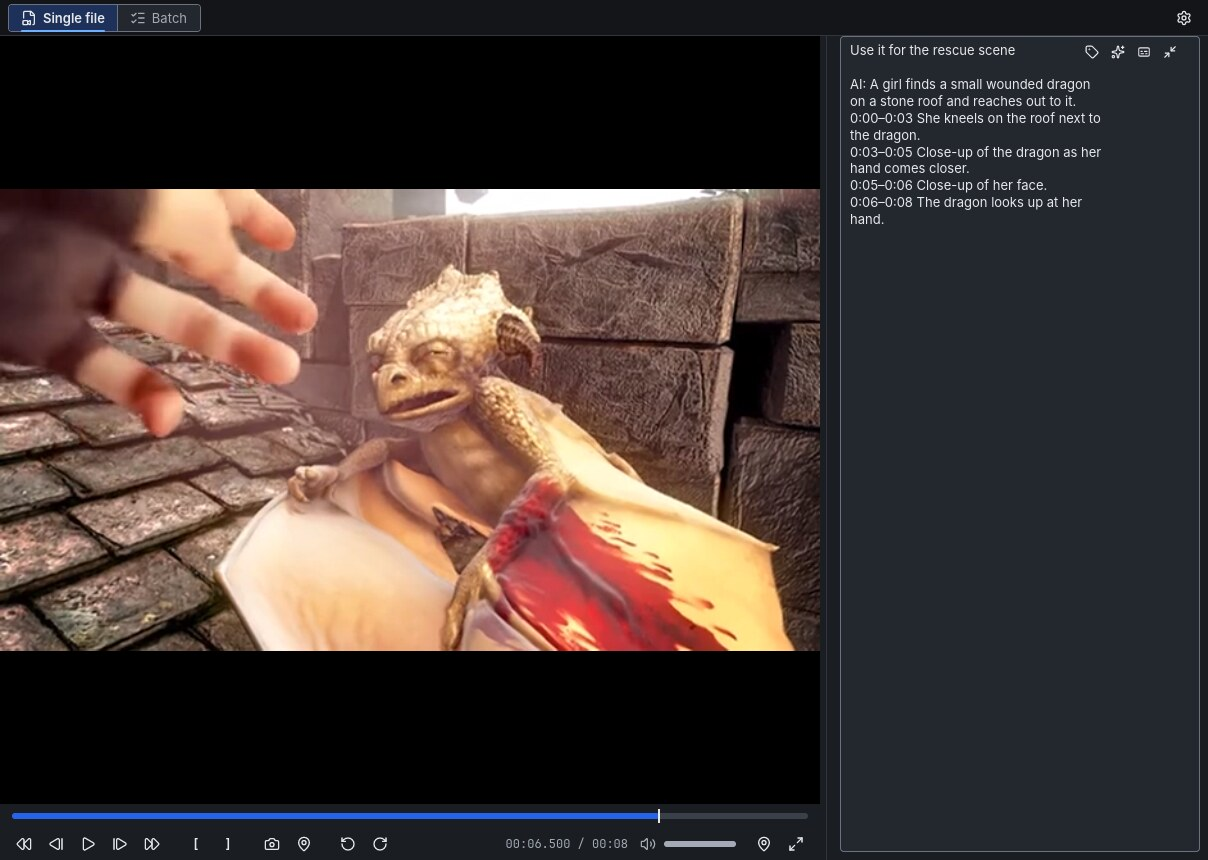
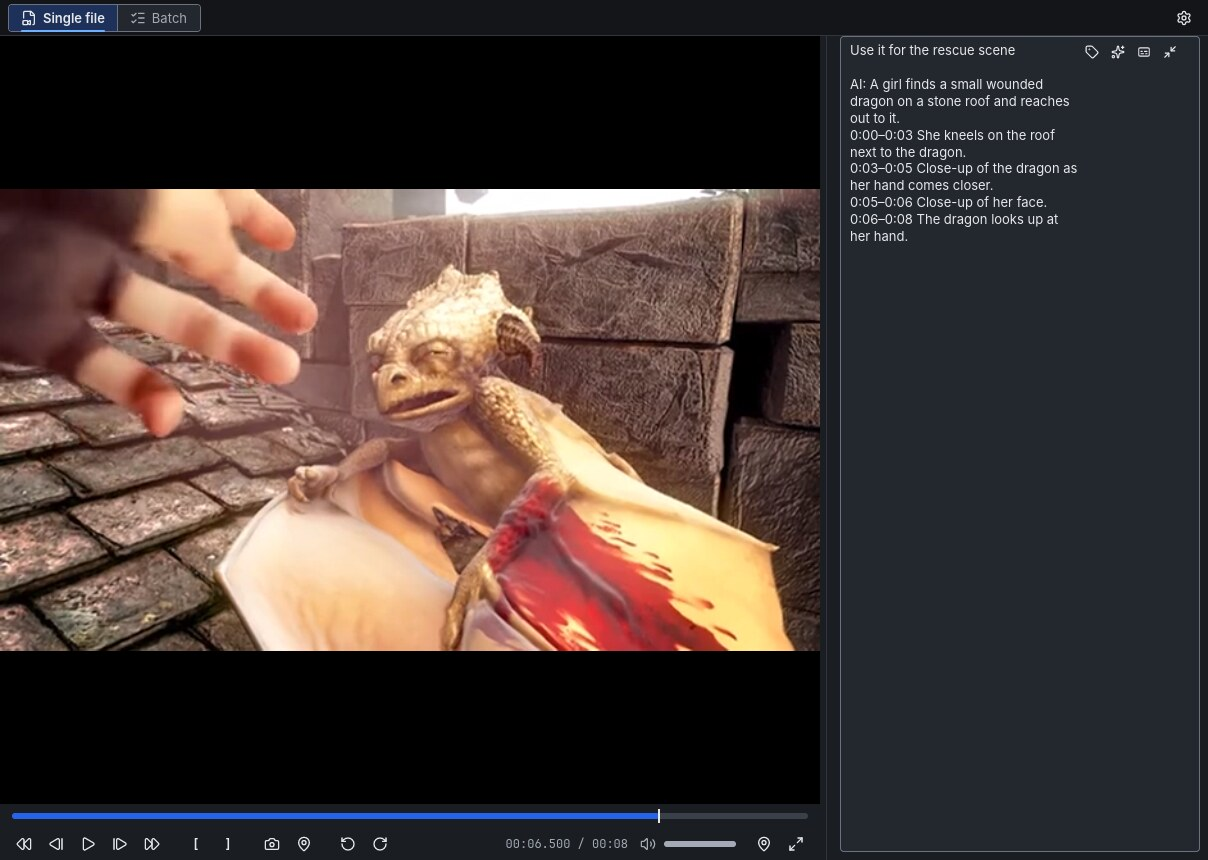
Comment box: the text keeps clear of all four corner buttons (#370)
COMMENT_CORNER_WIDTH still counted three buttons; the corner has had four since the tag button
(#250), so a long first line ran under them. README images re-rendered (the comment wraps a
little earlier).

Claude-Session: https://claude.ai/code/session_01TsVwAXcB9XoRg5hpyYuXpn

Changed region(s): [[0.7045, 0.0907, 0.9189, 0.3023]]

diff --git a/src/ui/tokens/region.rs b/src/ui/tokens/region.rs
@@ -90,9 +90,9 @@ pub const CUE_TEXT_WIDTH: f32 = SIDE_LIST_MAX_WIDTH - 3.0 * SPACE_S - SCROLL_GUT
 /// name adds `LINE_BODY` per line.
 pub const MARKER_ROW_HEIGHT: f32 = ICON_BUTTON_SMALL + SPACE_XXS + LINE_BODY + 2.0 * SPACE_TIGHT;
 
-/// What the corner of the comment box holds: the clip's two paid-action buttons and the expand
-/// button, with the room the text keeps clear of them.
-pub const COMMENT_CORNER_WIDTH: f32 = 3.0 * ICON_BUTTON_SMALL + 2.0 * SPACE_XXS + SPACE_XS;
+/// What the corner of the comment box holds: the clip's three action buttons (suggest tags,
+/// describe, subtitles) and the expand button, with the room the text keeps clear of them.
+pub const COMMENT_CORNER_WIDTH: f32 = 4.0 * ICON_BUTTON_SMALL + 3.0 * SPACE_XXS + SPACE_XS;
 
 // App bar (#64, §13.12 version B).
 /// The bar under the OS title bar: the 28 px mode switch with 4 px above and below.

diff --git a/version.md b/version.md
@@ -1,3 +1,7 @@
+# 0.191
+## Fixed
+- The buttons in the corner of the comment box no longer cover the end of a long first line: the text wraps before them.
+
 # 0.190
 ## Added
 - Generate subtitles also saves `clip.capt` next to the video: the whole transcript as plain text. frename does not use it yet; it moves with the clip when you rename it. Replace overwrites it.
